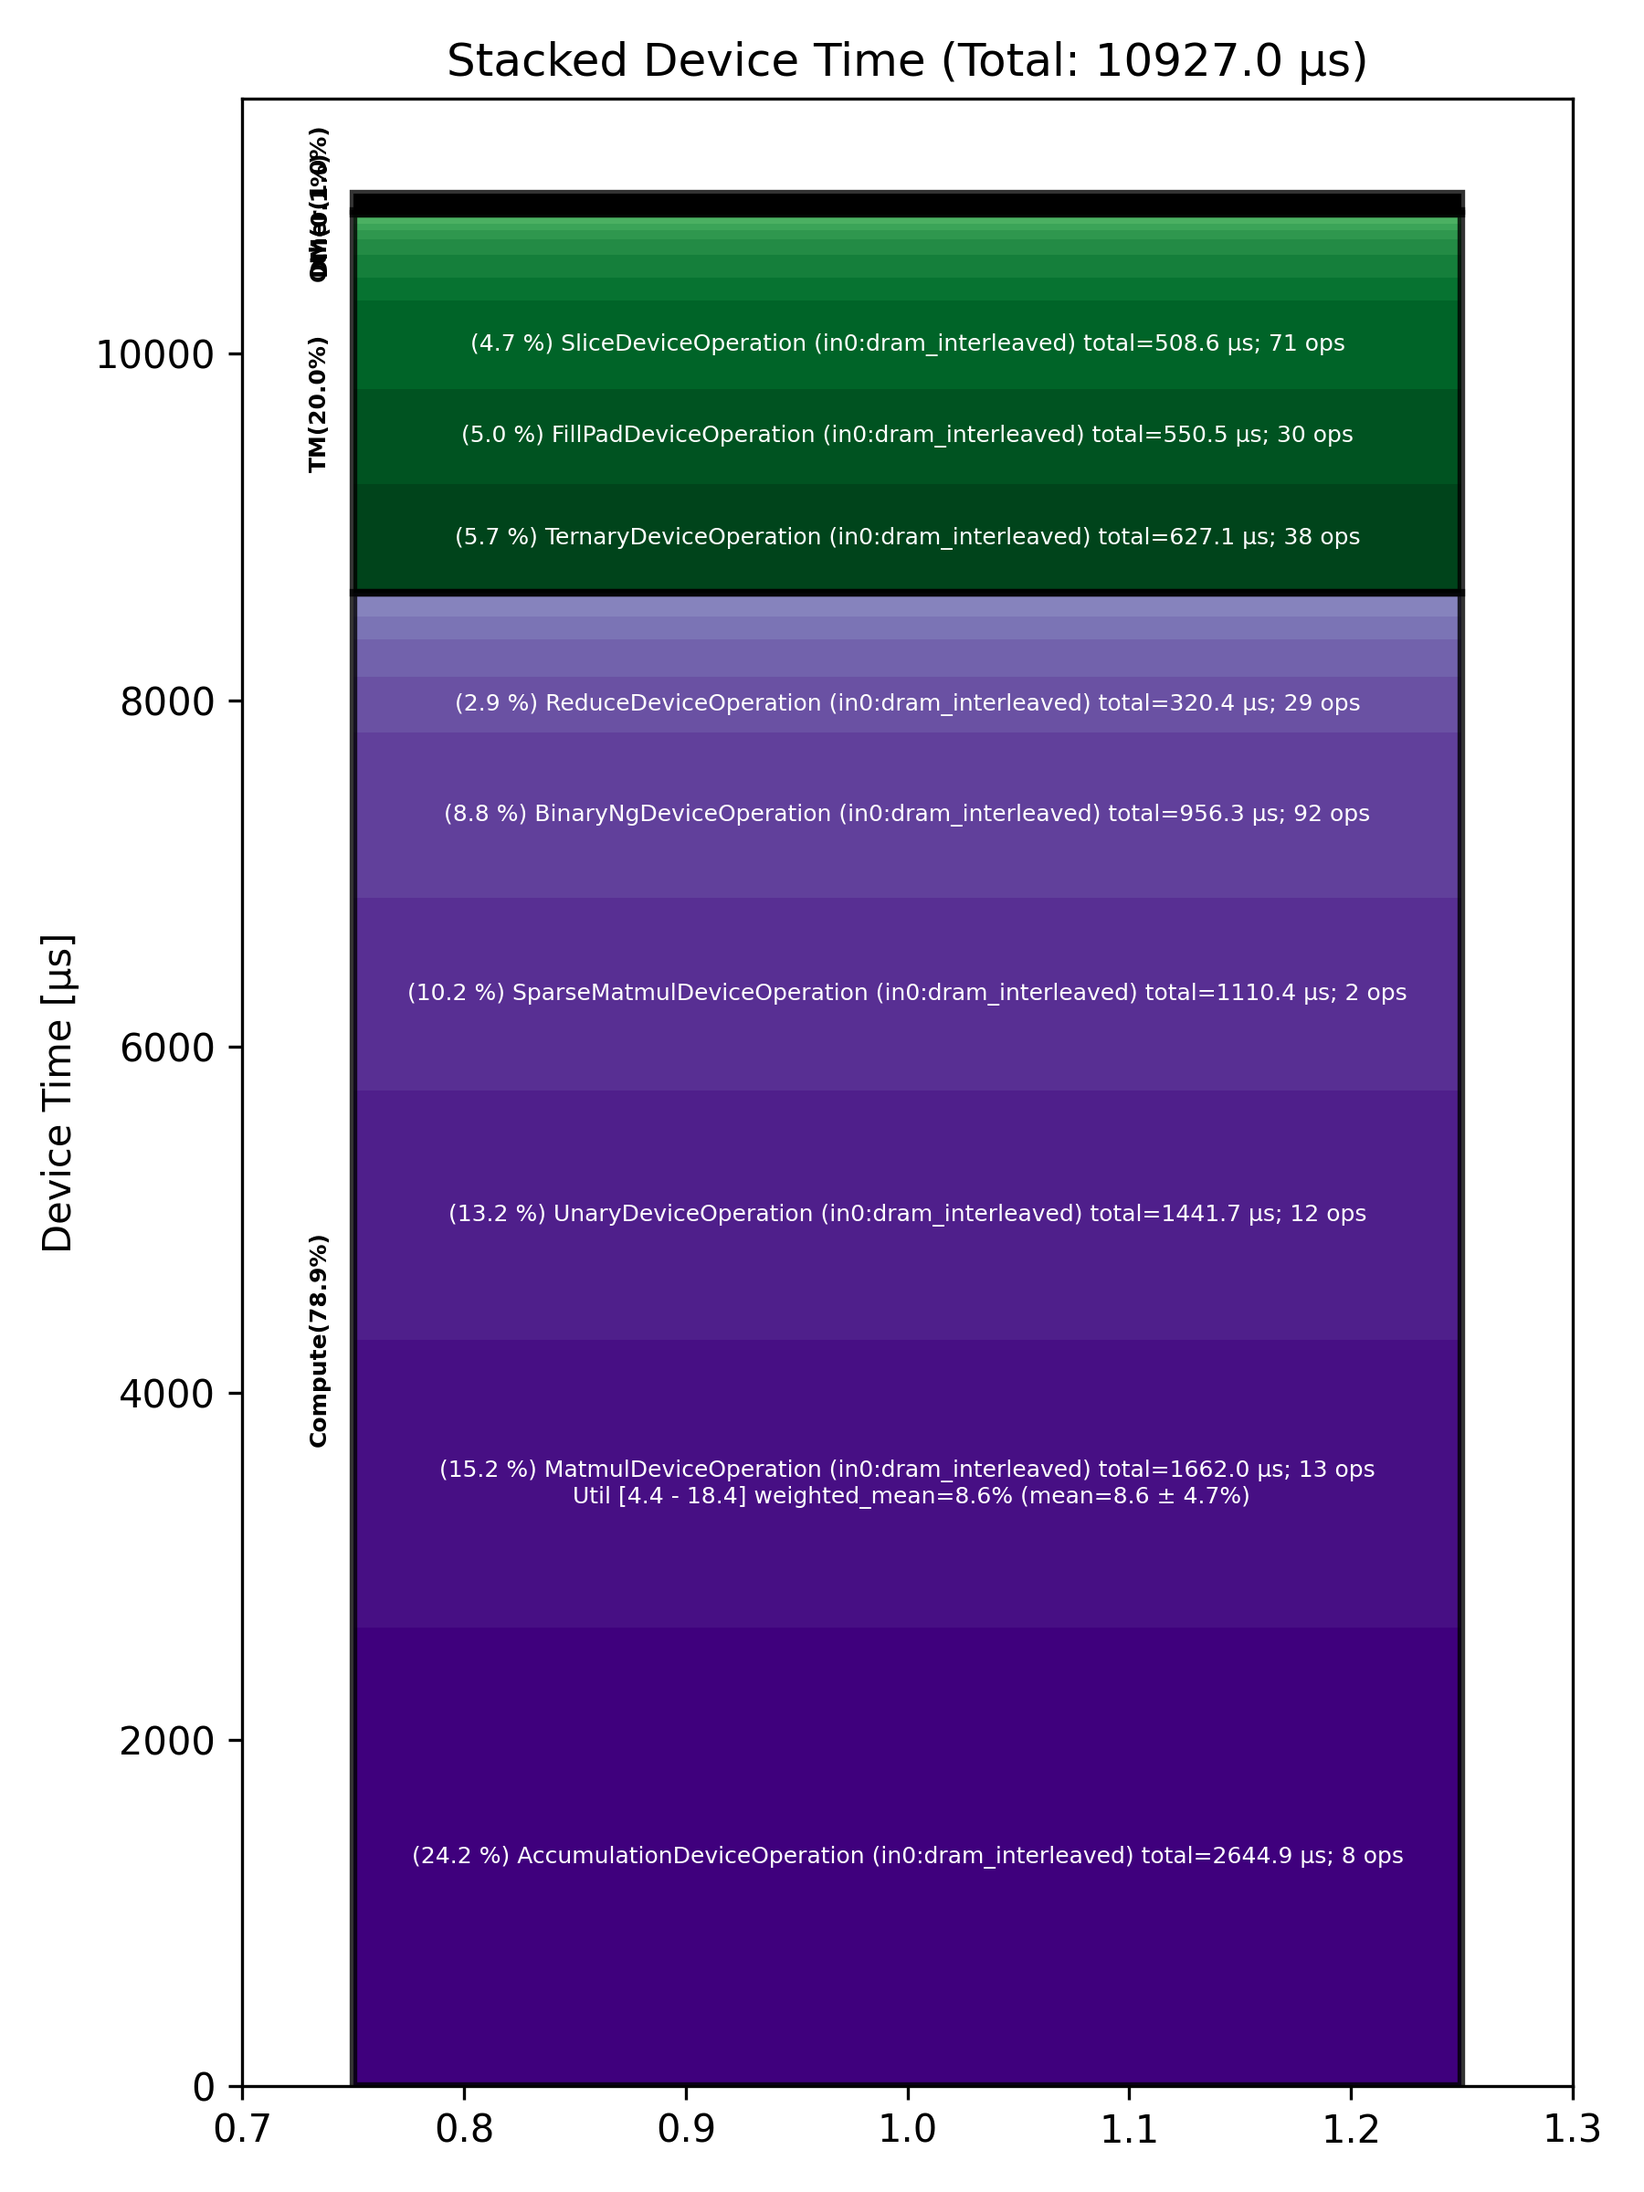
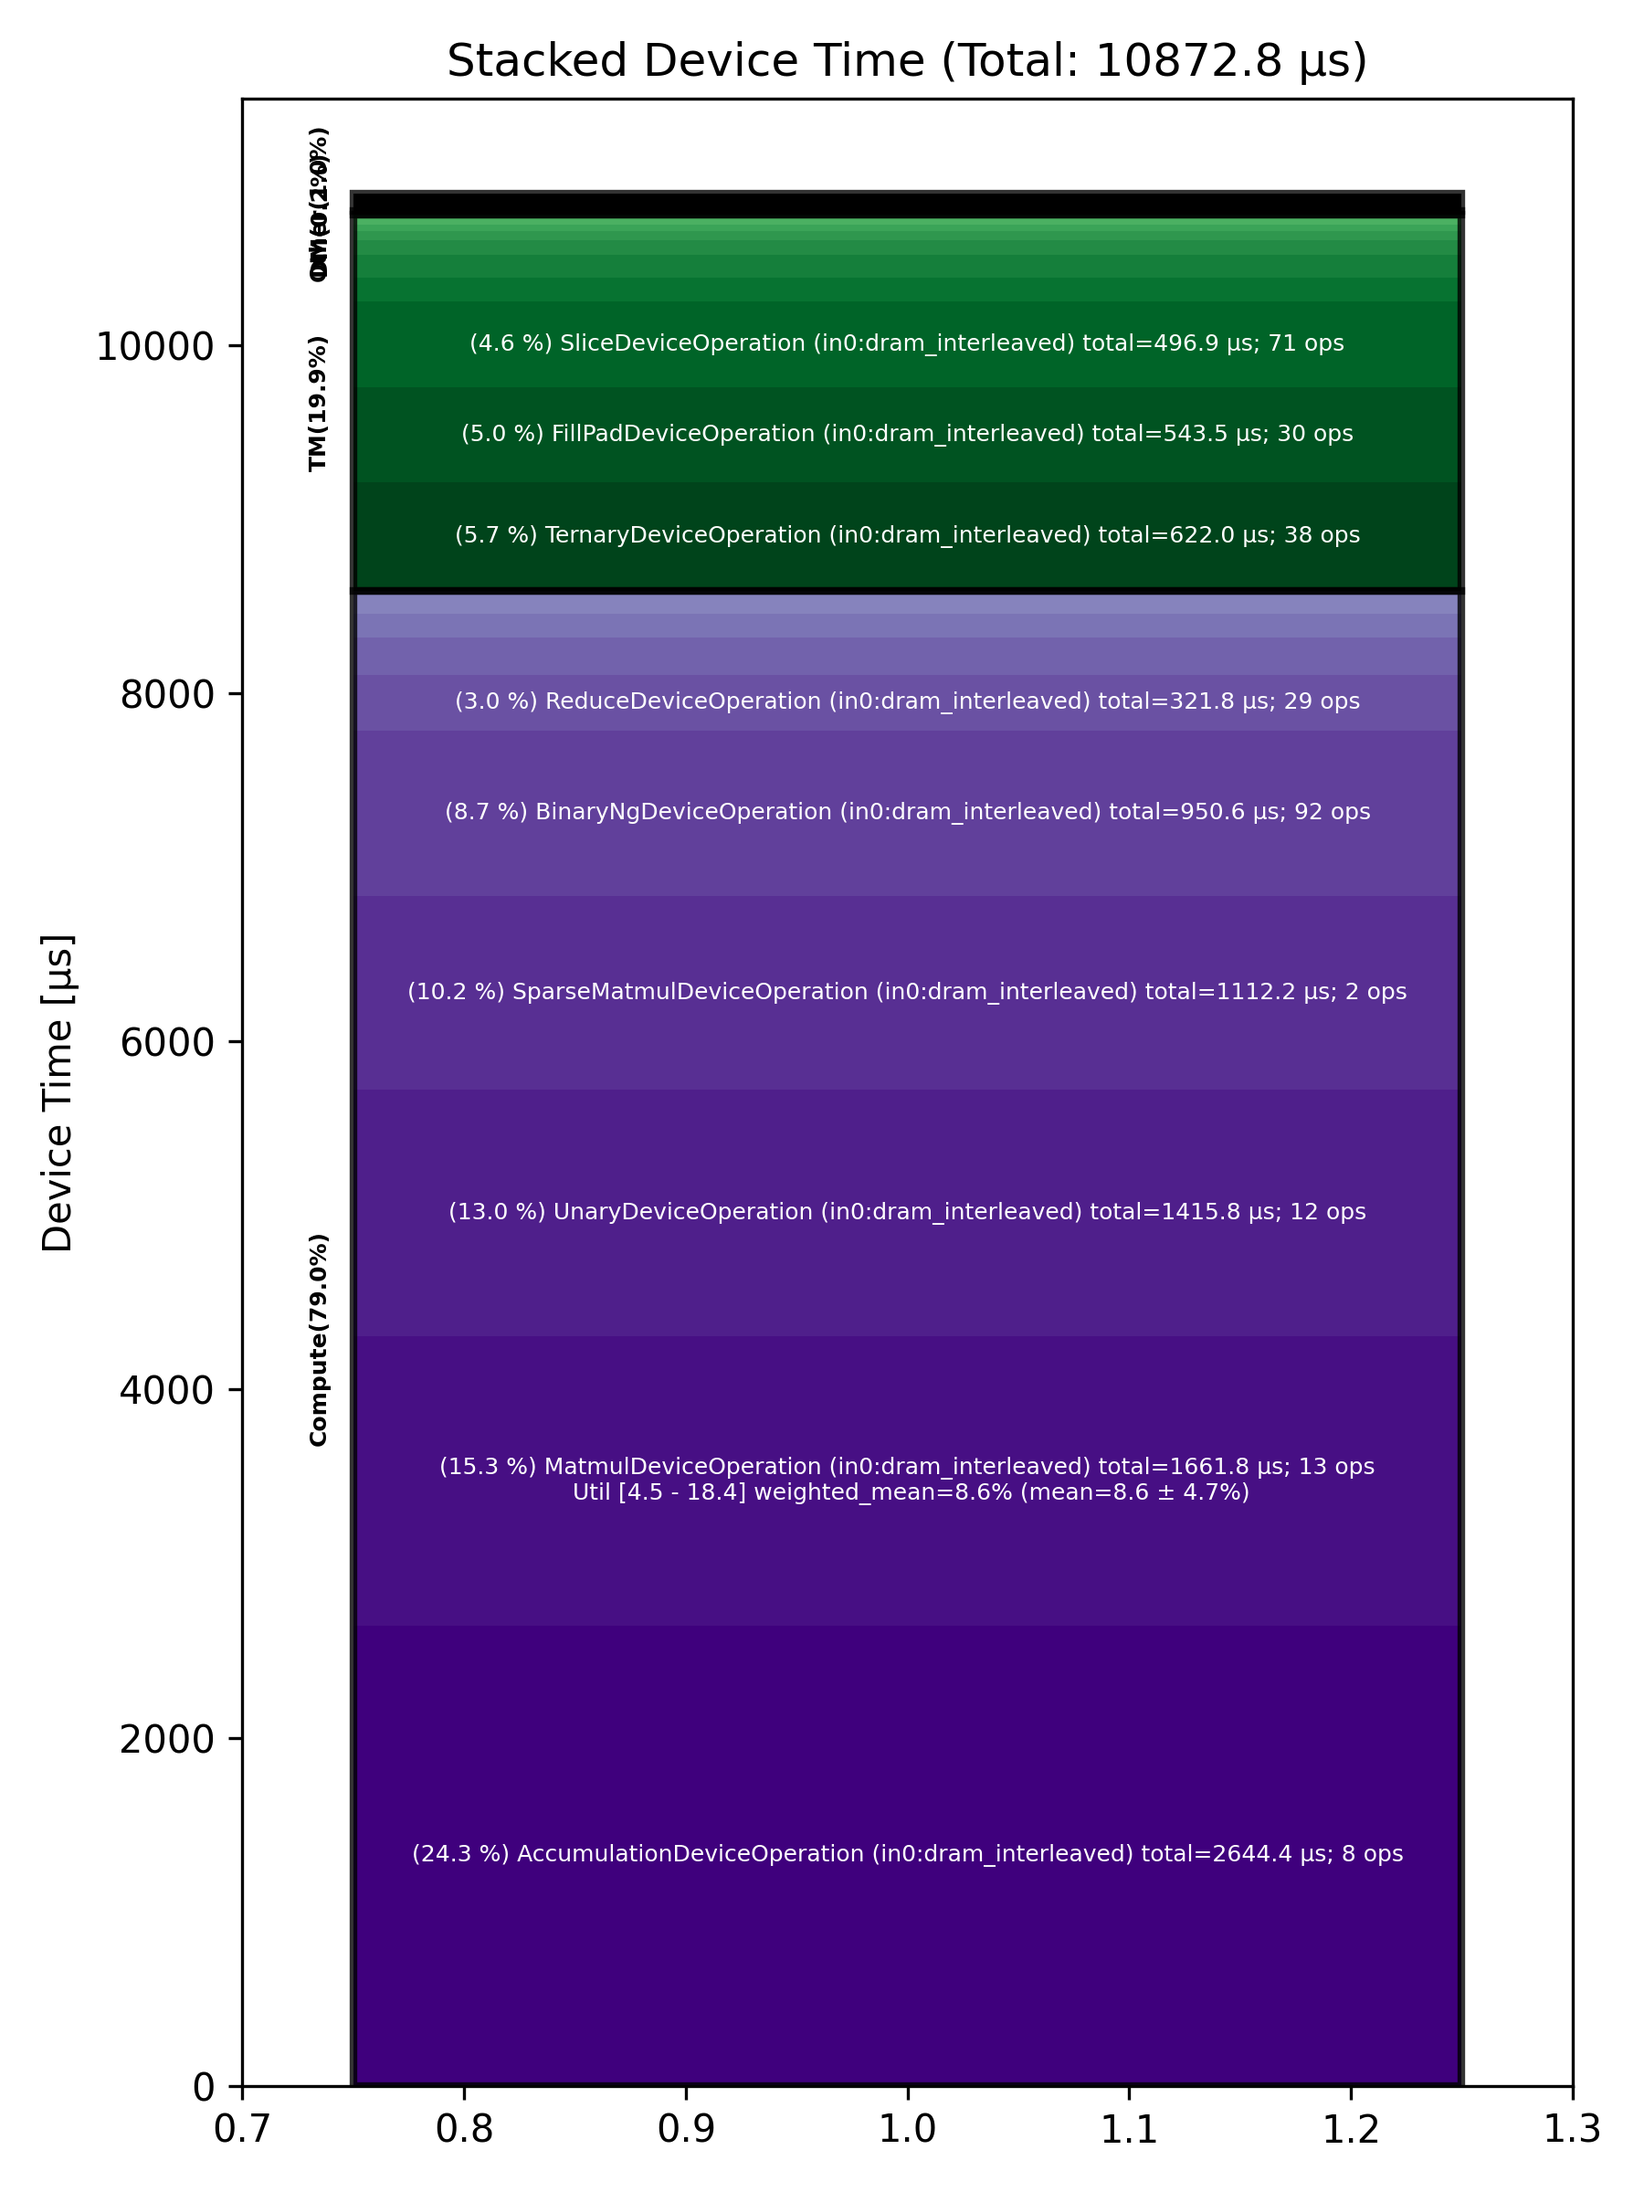
glm53_flash docs (local only): final sweep, watcher and layer-3 decode perf after the review-2 fixes

diff --git a/models/demos/glm53_flash/doc/functional_decoder/work_log.md b/models/demos/glm53_flash/doc/functional_decoder/work_log.md
@@ -178,3 +178,27 @@ completion and across 2048/2050). New/extended tests: per-row PCC split (rows < 
 4097 and 16385 prefills with every class asserted > 0.995; random-prompt prefill PCC asserted; the transition test
 checks the short user 0 at every step against its own HF cache; `test_prefill_tail_2_3_then_decode`; dense DSA
 prefill at S = 1, 2, 3, 31, 33 (short-S control); sparse-path determinism.
+- Results after the review-2 fixes (`_logs/fix2_*.log`, one chip): dsa (S=1/2/3/31/33/96/1000) 7 passed, attention-only
+  S=1 0.99989 (no short-S effect in the DSA sublayer); sparse 4097 repeated prompt 0.99992 (rows<2048 0.99994, >=2048
+  0.9999); random prompt 4097 0.99994 (rows<2048 0.99988, >=2048 0.99986; per position%4 all >= 0.9998), selection ids
+  98-99 % common with contiguous rows, pool cache 0.999994; transition 2040..2063 both users >= 0.9995; 16K 0.99983
+  (0.99988 / 0.99980); traced + two users (layer 3) unchanged; 8 users (layer 3) worst 0.99938; tails 2/3 (R2042/R2043):
+  prefill 0.99987/0.99990, 12 decode steps >= 0.9978, pool cache 0.999994 (worst row 0.99999).
+- Checkpoint: local `arg/glm53_flash` @ 4cd5f8fe829 (code + docs), upstream `origin/arg/glm-53-flash` @ 3ae53bf70ee.
+  Running: full logged sweep (`_logs/sweep2_*.log`), watcher re-runs (`watcher2_*`), layer-3 decode perf re-collection.
+- Open design item carried into the next round (reviewer "other concern", design Phase-1 row: "chunked prefill"):
+  wire `prefill_forward(streams, user, seq_len, start)` through the API. KDA: `ttKDA.forward(actual_start=start)`
+  with the user's carried `KdaState` (already supported; needs the per-user state read from the batched slots).
+  DSA: `paged_fill_cache` at a block offset (fill from `start` with a page-table view), index maintenance from
+  `start` (pools `start//4 ..`, ring from the previous tail), dense rows via the cached prefix (K/V from
+  `user_rows_rm` + chunk) while `start + T <= 2048`, sparse rows via `select(query_start=start)`. The quadratic
+  `[T_chunk, 4*pools]` score intermediate then scales with the chunk, not the context.
+- Final sweep after the review-2 fixes (`_logs/sweep2_<test>.log`): test_kda 2, test_moe 2, test_dsa 7, test_decoder_layer 5,
+  test_decode_trace 5, test_dsa_sparse 1, test_dsa_long 5, test_batch8 2, test_determinism 3 (incl. the sparse path) -> 32/32 passed.
+  Per-row PCC distributions (one token row = 4 x 4096 values): random 4097 prefill median 0.9999, p5 0.99981, min 0.98783;
+  dense 2040 prefill median 0.99996, p5 0.99985, min 0.99079, 5/2040 rows < 0.997; 16385 prefill min 0.9678 (one row). A single-token
+  prefill is one sample of this distribution (the 8-user test's 1-token user at 0.9968); the DSA attention alone at S=1 is 0.99989.
+- Watcher re-runs on the fixed paths (`_logs/watcher2_test_dsa_sparse`, `_logs/watcher2_test_decode_trace`): clean, 2328 / 3002 lines, 0 suspicious.
+- layer3_dsa_moe traced decode re-profiled on the new decode path (dense flash-MLA for every slot + index maintenance, B=1, pos 1024,
+  one replay, seed-only; wall 11.31 ms/step): 435 ops, 10.87 ms device per step, duplicate ids 0; top op classes: AccumulationDeviceOperation 2.64 ms x8, MatmulDeviceOperation 1.66 ms x13, UnaryDeviceOperation 1.42 ms x12, SparseMatmulDeviceOperation 1.11 ms x2, BinaryNgDeviceOperation 0.95 ms x92, TernaryDeviceOperation 0.62 ms x38.
+  README decode row: layer 3 10.87 ms/step device (435 ops)

diff --git a/models/demos/glm53_flash/doc/functional_decoder/README.md b/models/demos/glm53_flash/doc/functional_decoder/README.md
@@ -46,7 +46,7 @@ Residual convention: HF `[B, S, 4, 4096]` <-> packed `[1, 1, B*S, 16384]` (`host
 | `test_batch8.py` | 8 user slots (lengths 1..200, permuted page table), layers 3 and 4, 3 batched decode steps | prefill >= 0.9968 (1-token user), decode worst per user 0.9994 |
 | `test_determinism.py` | layers 0, 3: repeated prefill and traced-decode replay with `throw_exception_on_fallback`; sparse prefill + sparse decode repeated | bit-identical outputs |
 | watcher | `TT_METAL_WATCHER=10` on the layer-3 dump test (`~/ashai/glm53/_logs/watcher_layer3`) | PASSED, 10 dumps, no watcher exceptions |
-| `test_perf_layer.py` | warmed prefill S=1024 (wall), traced decode B=1 (one replay, tt-perf-report `Device Time`) | prefill: layer 3 314 ms, layer 4 298 ms (device 293 ms, 1002 ops); decode: layer 3 10.93 ms/step device (435 ops, wall 11.36), layer 4 10.76 ms/step device (471 ops, wall 11.2) |
+| `test_perf_layer.py` | warmed prefill S=1024 (wall), traced decode B=1 (one replay, tt-perf-report `Device Time`) | prefill: layer 3 314 ms, layer 4 298 ms (device 293 ms, 1002 ops); decode: layer 3 10.87 ms/step device (435 ops, wall 11.31), layer 4 10.76 ms/step device (471 ops, wall 11.2) |
 
 Context contract: `doc/context_contract.json`. Full log: `doc/functional_decoder/work_log.md`.
 Profiler note: Tracy device zones of the SDPA prefill kernels (dense and sparse share `compute_streaming.hpp`: `:632` vs
